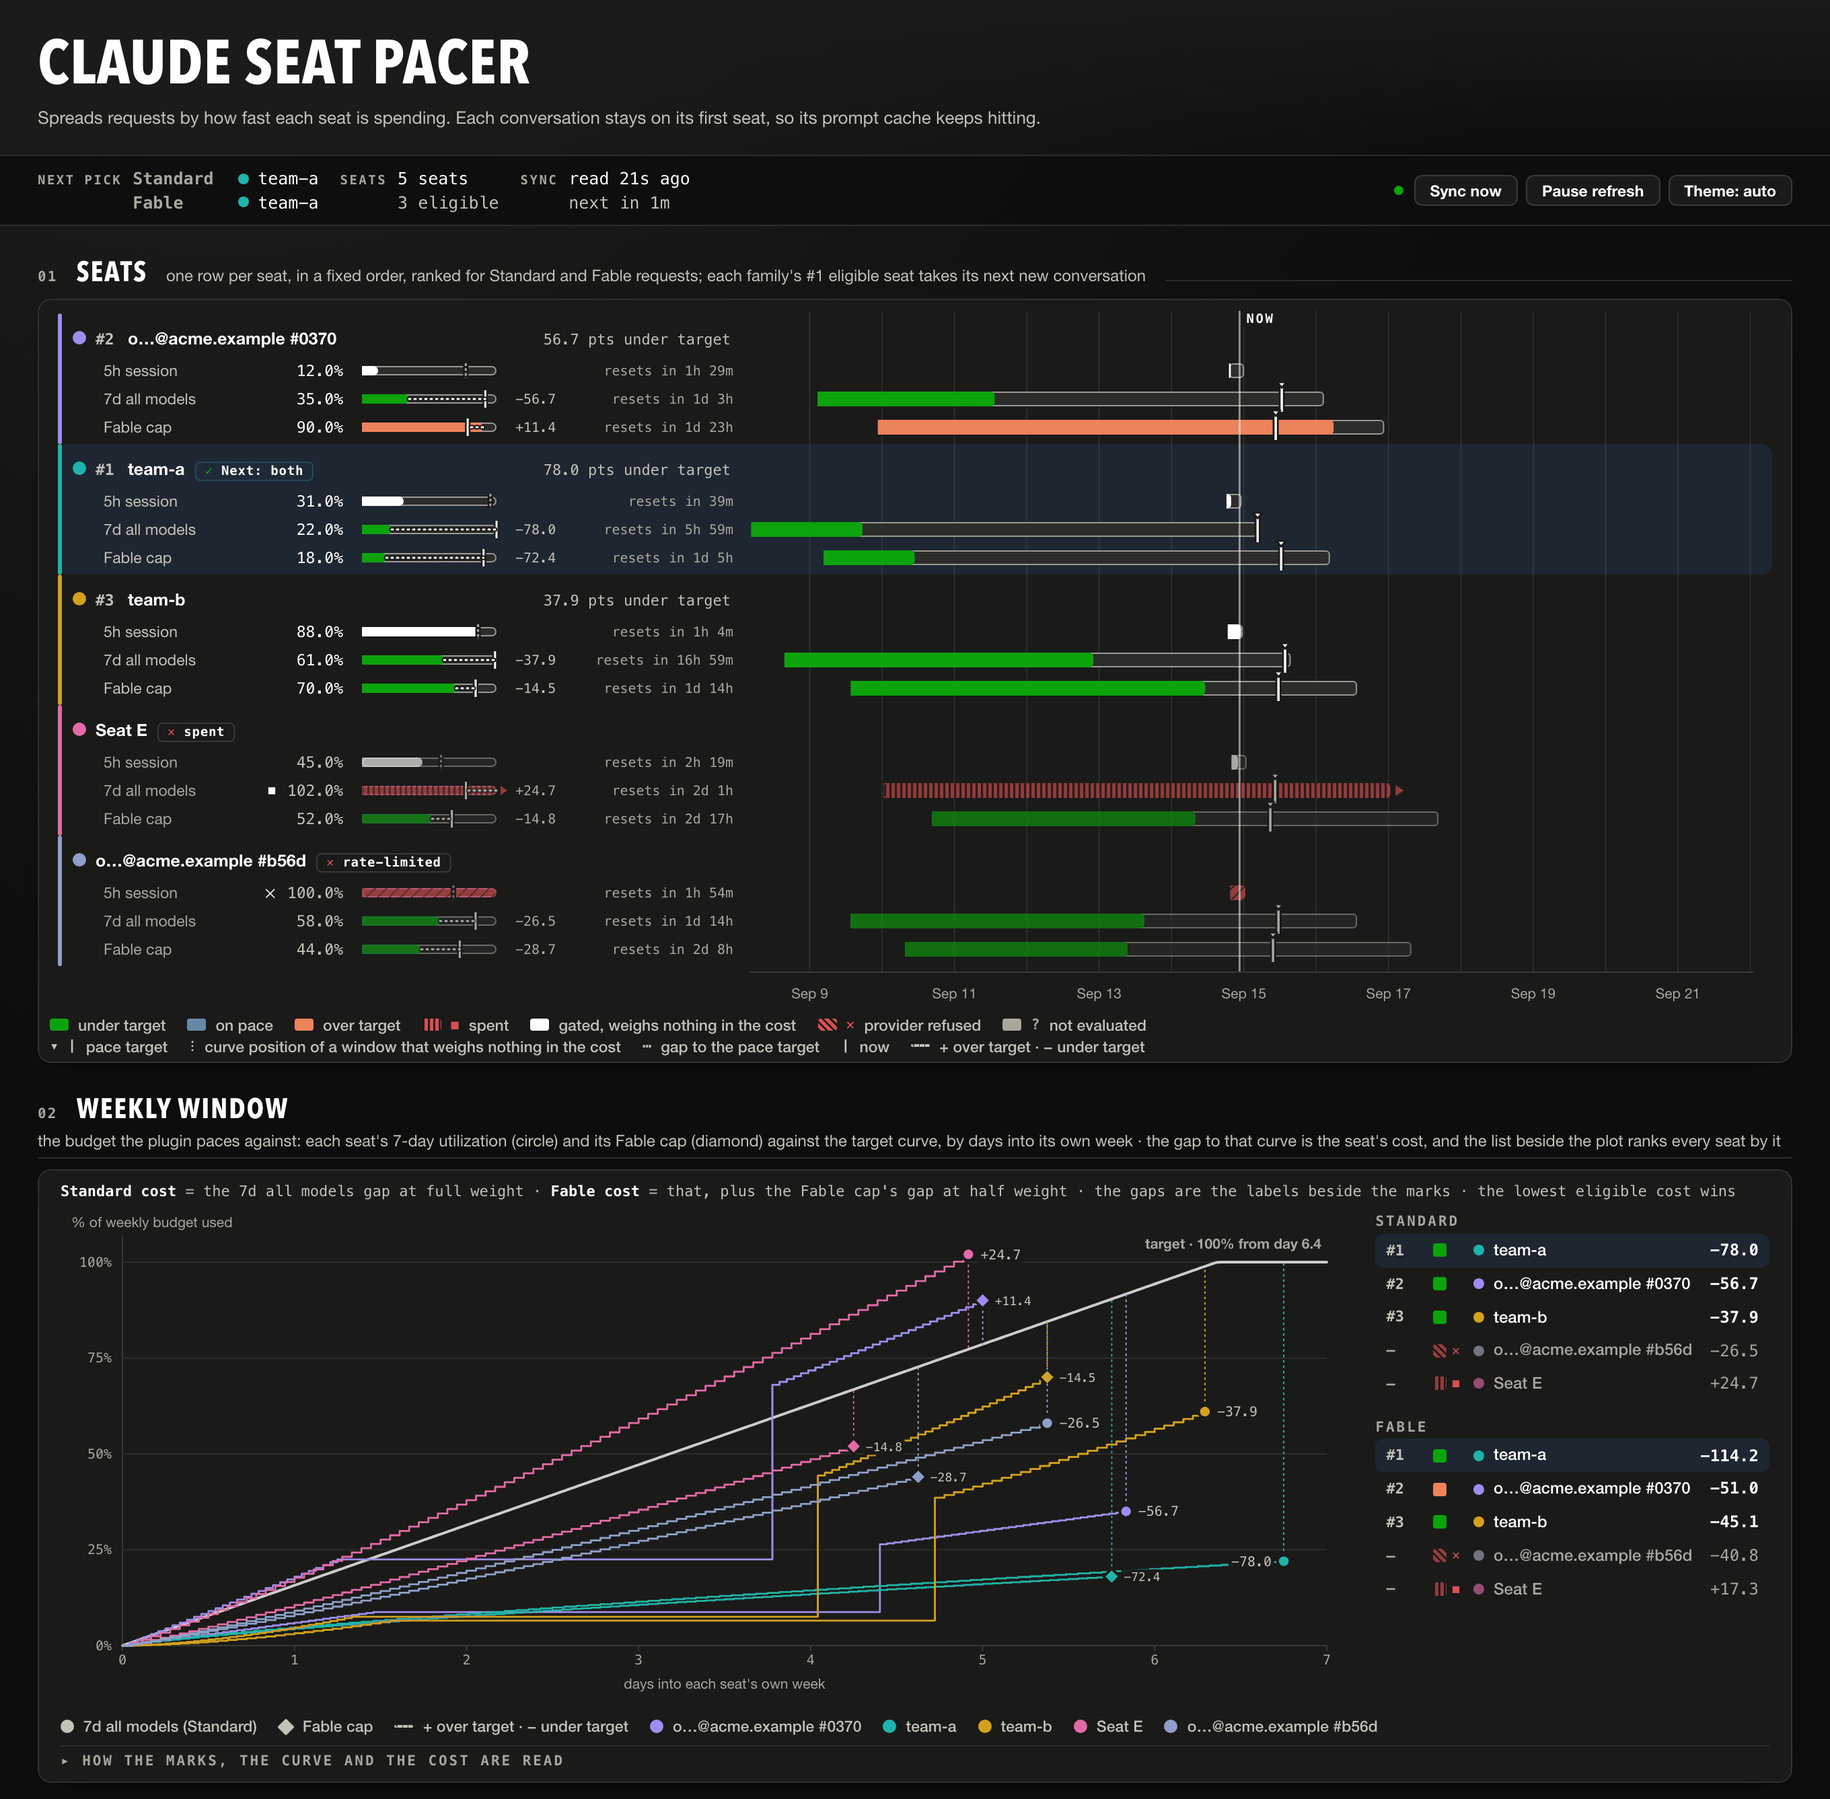
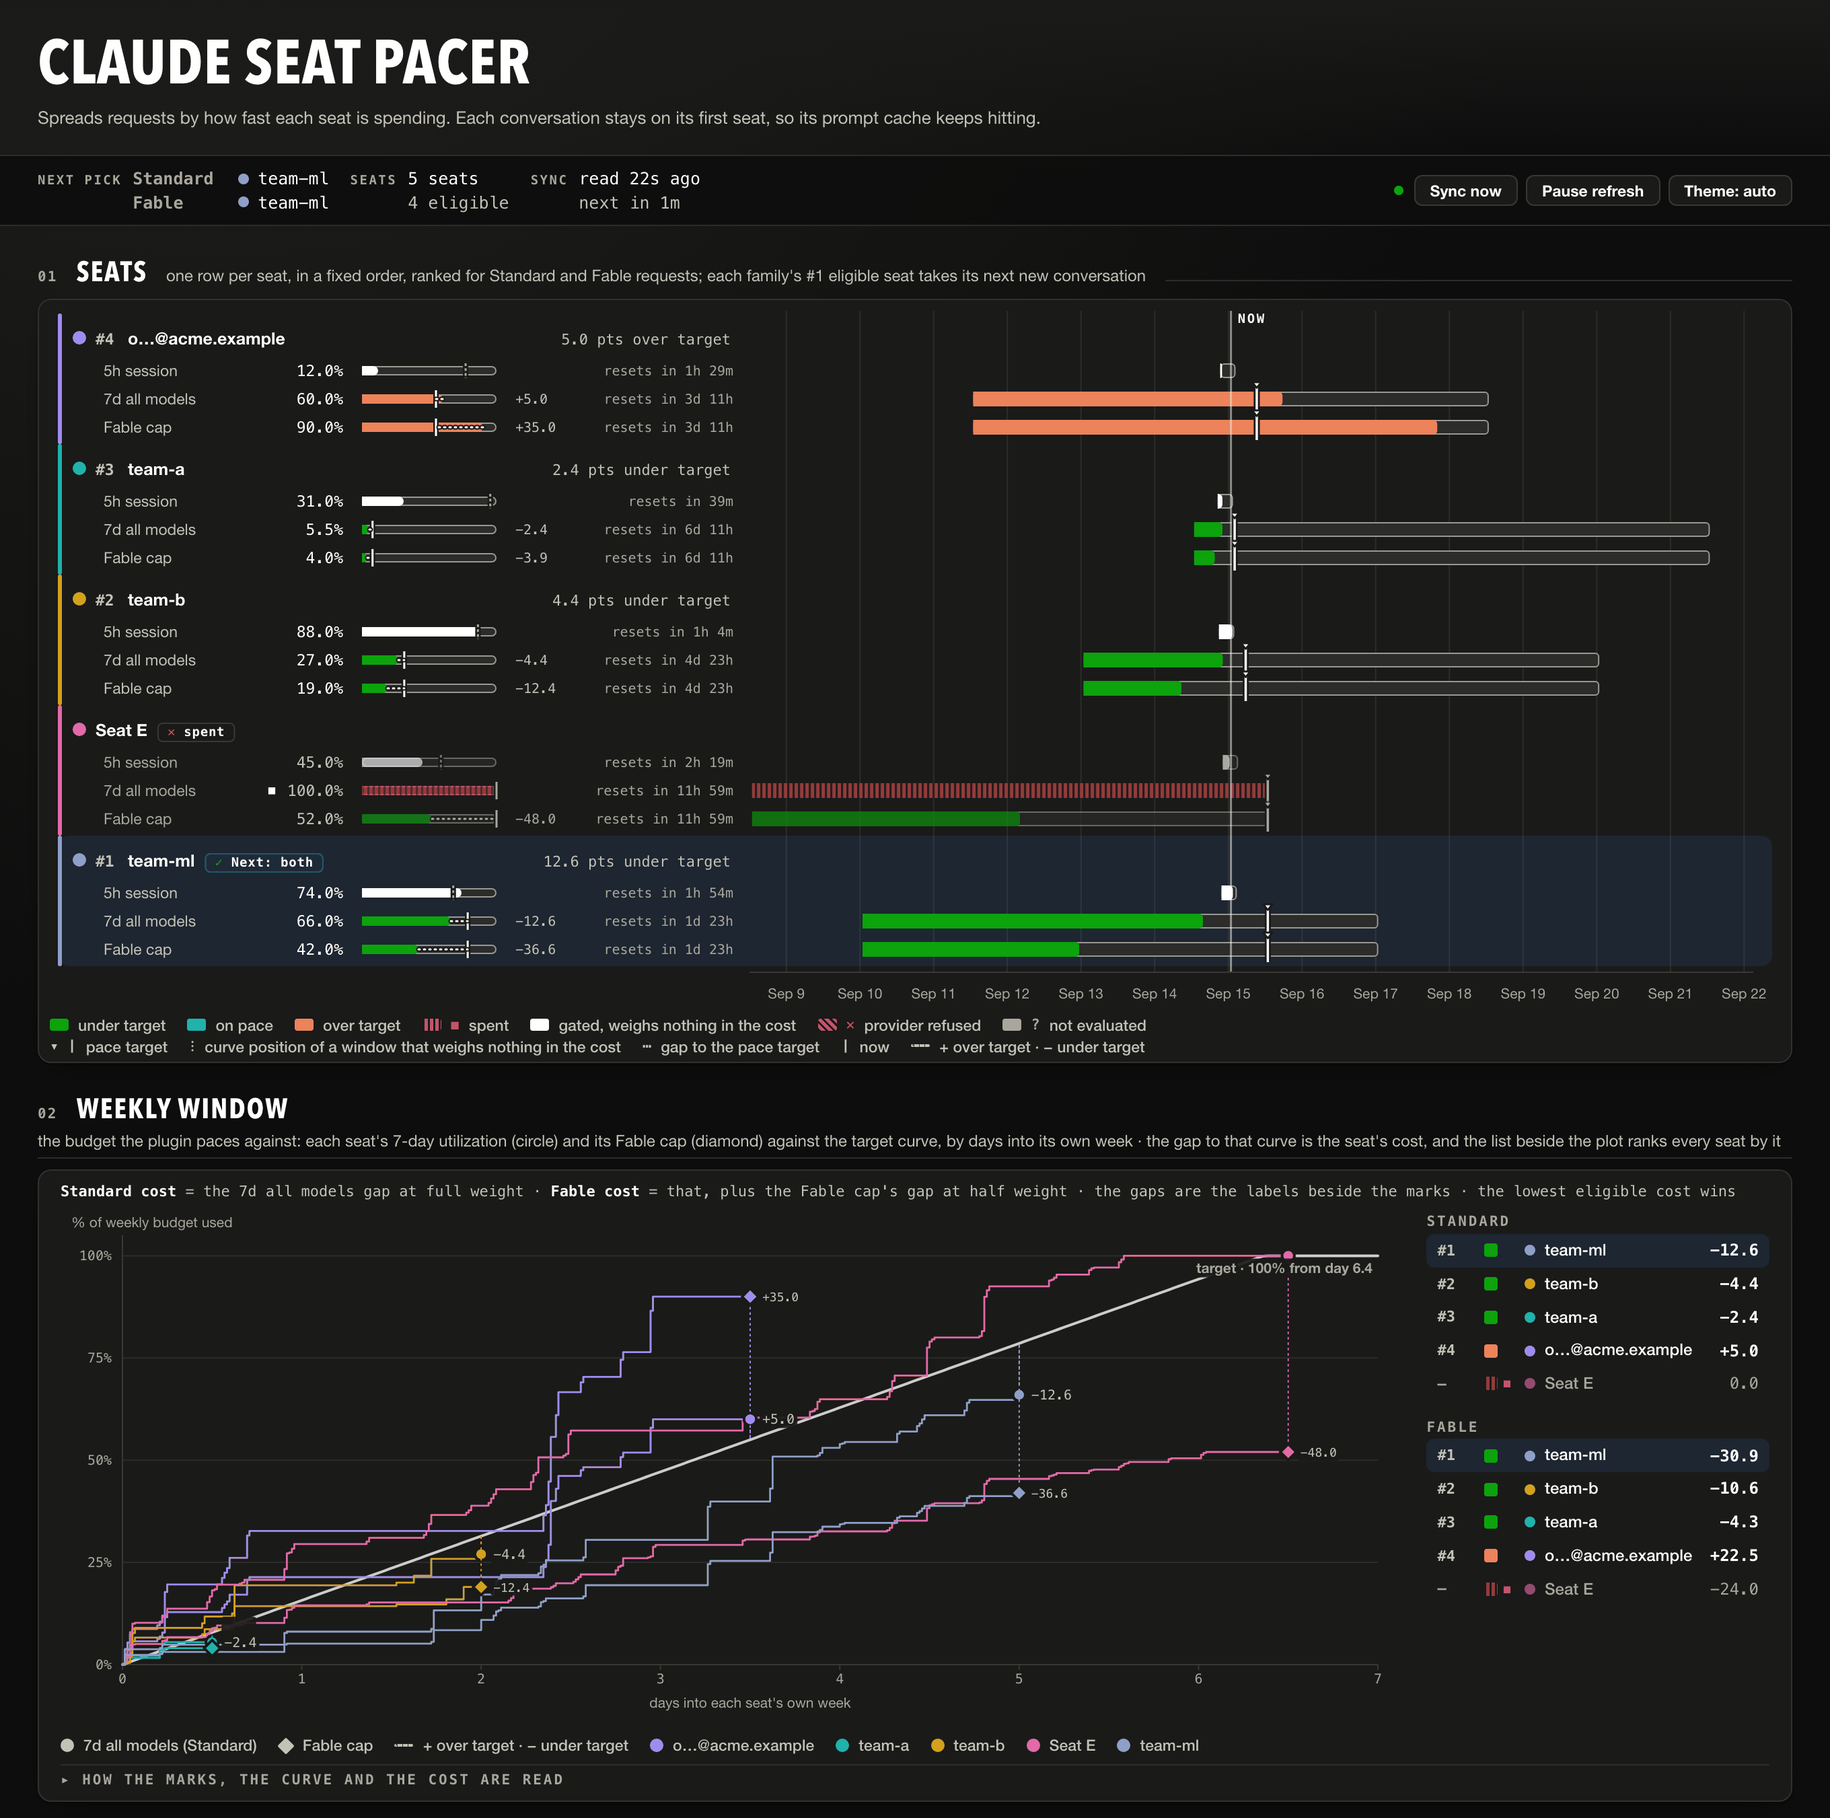
Chore(N/A): Walk the fixture's weekly history like a real seat spends
The many scenario's weekly windows follow a seeded walk: spending runs
of one to three points a step with an occasional larger jump, idle runs
of hours to a day or more, held inside a band around the straight line
to the seat's present reading so the curve glides around its own trend.
The five-seat scenario sits at day 0.5, 2, 3.5, 5 and 6.5 of its seats'
weeks, the last one spent; both weekly windows of a seat share one
reset. The README's hero shows that scenario.

diff --git a/cmd/webdev/main.go b/cmd/webdev/main.go
@@ -11,6 +11,7 @@ import (
 	"fmt"
 	"log"
 	"math"
+	"math/rand"
 	"net/http"
 	"sort"
 	"strings"
@@ -605,22 +606,32 @@ func (f *fixture) exhaustedDecisions() []model.Decision {
 type manySeat struct {
 	id, label, name, email  string
 	session, weekly, scoped float64
+	// elapsedDays is how far into its weekly cycle the seat sits, which is
+	// where its mark lands on the pace plot's x axis. Zero spreads the seat
+	// across the axis by index instead.
+	elapsedDays float64
 	// state picks the exceptional condition the seat carries, "" for none.
 	state string
 }
 
+// The first five rows are the pool `many -seats 5` renders, and they are the
+// pool the README's hero shows: half a day, two days, three and a half, five
+// and six and a half into their own weeks, so their marks spread across the
+// pace plot, and utilizations that put three seats under the target curve, the
+// critical one over it and still eligible, and the last spent. The rest carry
+// the exceptional states, one per row.
 var manySeats = []manySeat{
-	{id: "claude-alice-team-a.json", name: "claude-alice-team-a.json", email: "alice@example.com", session: 0.31, weekly: 0.22, scoped: 0.18},
-	{id: "claude-alice-team-b.json", name: "claude-alice-team-b.json", email: "alice@example.com", session: 0.88, weekly: 0.61, scoped: 0.70},
-	{id: "claude-ops@acme.example.json", name: "claude-ops@acme.example.json", email: "ops@acme.example", session: 0.12, weekly: 0.35, scoped: 0.90, state: "critical"},
-	{id: "claude-oncall@acme.example.json", name: "claude-oncall@acme.example.json", email: "oncall@acme.example", session: 1.00, weekly: 0.58, scoped: 0.44, state: "rejected"},
-	{id: "claude-seat-e.json", label: "Seat E", name: "claude-seat-e.json", session: 0.45, weekly: 0.91, scoped: 0.52, state: "spent"},
+	{id: "claude-alice-team-a.json", name: "claude-alice-team-a.json", email: "alice@example.com", session: 0.31, weekly: 0.055, scoped: 0.04, elapsedDays: 0.5},
+	{id: "claude-alice-team-b.json", name: "claude-alice-team-b.json", email: "alice@example.com", session: 0.88, weekly: 0.27, scoped: 0.19, elapsedDays: 2},
+	{id: "claude-ops@acme.example.json", name: "claude-ops@acme.example.json", email: "ops@acme.example", session: 0.12, weekly: 0.60, scoped: 0.90, elapsedDays: 3.5, state: "critical"},
+	{id: "claude-team-ml.json", name: "claude-team-ml.json", email: "svc.ml@acme.example", session: 0.74, weekly: 0.66, scoped: 0.42, elapsedDays: 5},
+	{id: "claude-seat-e.json", label: "Seat E", name: "claude-seat-e.json", session: 0.45, weekly: 1.0, scoped: 0.52, elapsedDays: 6.5, state: "spent"},
 	{id: "claude-quota.bot@acme-corp.example.json", name: "claude-quota.bot@acme-corp.example.json", email: "quota.bot@acme-corp.example", session: 0.05, weekly: 0.09, scoped: 0.0, state: "stale"},
 	{id: "claude-team-data.json", name: "claude-team-data.json", email: "svc.data@acme.example", session: 0.52, weekly: 0.40, scoped: 0.33, state: "error"},
 	{id: "claude-team-infra.json", name: "claude-team-infra.json", email: "svc.infra@acme.example", session: 0.0, weekly: 0.0, scoped: 0.0, state: "nosnap"},
 	{id: "claude-team-mobile.json", name: "claude-team-mobile.json", email: "svc.mobile@acme.example", session: 0.67, weekly: 0.47, scoped: 0.51, state: "scoped-rejected"},
 	{id: "claude-team-web.json", name: "claude-team-web.json", email: "svc.web@acme.example", session: 0.20, weekly: 0.15, scoped: 0.09, state: "disabled"},
-	{id: "claude-team-ml.json", name: "claude-team-ml.json", email: "svc.ml@acme.example", session: 0.74, weekly: 0.66, scoped: 0.81},
+	{id: "claude-oncall@acme.example.json", name: "claude-oncall@acme.example.json", email: "oncall@acme.example", session: 1.00, weekly: 0.58, scoped: 0.44, state: "rejected"},
 	{id: "claude-team-qa.json", name: "claude-team-qa.json", email: "svc.qa@acme.example", session: 0.38, weekly: 0.29, scoped: 0.24},
 }
 
@@ -702,6 +713,16 @@ func (f *fixture) addManySeat(i int, ms manySeat) {
 		},
 	}
 	f.observedAge[ms.id] = time.Duration(20+13*i) * time.Second
+	elapsed := ms.elapsedDays
+	if elapsed <= 0 {
+		// Seats past the scripted five take axis positions those five leave
+		// open: a quarter-day lattice offset from theirs, which repeats only
+		// after 25 seats and never lands on one of their marks.
+		elapsed = 0.875 + math.Mod(1+1.5*float64(i), 6.25)
+	}
+	// Both weekly windows reset together, as a provider resets a seat's whole
+	// week at one instant.
+	weeklyReset := f.anchor.Add(time.Duration((7 - elapsed) * float64(24*time.Hour)))
 	snap := model.AuthSnapshot{
 		AuthID: ms.id, Label: label, Source: model.SourceUsageEndpoint,
 		Windows: []model.Window{
@@ -713,13 +734,13 @@ func (f *fixture) addManySeat(i int, ms manySeat) {
 			},
 			{
 				Kind: model.WindowWeekly, Utilization: ms.weekly,
-				ResetsAt: f.anchor.Add(time.Duration(6+11*i) * time.Hour),
+				ResetsAt: weeklyReset,
 				Duration: model.WeeklyDuration,
 				Status:   model.StatusAllowed, Severity: model.SeverityNormal,
 			},
 			{
 				Kind: model.WindowWeeklyScoped, Scope: model.FamilyFable, Utilization: ms.scoped,
-				ResetsAt: f.anchor.Add(time.Duration(30+9*i) * time.Hour),
+				ResetsAt: weeklyReset,
 				Duration: model.WeeklyDuration,
 				Status:   model.StatusAllowed, Severity: model.SeverityNormal,
 			},
@@ -741,7 +762,6 @@ func (f *fixture) addManySeat(i int, ms manySeat) {
 		snap.Windows[2].Status = model.StatusRejected
 		snap.Windows[2].Severity = model.SeverityCritical
 	case "spent":
-		snap.Windows[1].Utilization = 1.02
 		snap.Windows[1].Status = model.StatusAllowedWarning
 		snap.Windows[1].Severity = model.SeverityWarning
 	case "stale":
@@ -819,17 +839,25 @@ func (f *fixture) manyDecisions(ids []string) []model.Decision {
 
 // history synthesizes the utilization record the poller would have built for
 // a snapshot, through a real quota store so it is thinned the way the plugin
-// thins: every window climbs from the start of its current cycle to its
-// present reading, with the completed cycle before it landing somewhere of its
-// own. The seat's id shapes the curves so a pool does not draw the same line
-// twelve times; a third of the seats get a steep last forty minutes on the
-// 5-hour window, which is the case the chart's conversation markers exist for,
-// and another third hold every window flat through the middle half of its
+// thins. The seat's id seeds every draw, so a pool draws a different line per
+// seat and a reload draws the same ones.
+//
+// The two weekly windows walk rather than curve: the seat spends in bursts of
+// a few steps separated by idle runs of a couple of hours to most of a day,
+// each spending step drawing from a long-tailed distribution, and a band around
+// the straight line to the endpoint pulls the walk back whenever it runs ahead
+// or falls behind. That is the shape a real week has — overnight and weekend
+// flats, a median step near a point of utilization, and a tenth of the steps
+// carrying a third of the rise. The 5-hour window keeps a smooth power curve,
+// which is what a window that short and steep looks like; a third of the seats
+// get a steeper last forty minutes, the case the chart's conversation markers
+// exist for, and another third hold it flat through the middle half of the
 // cycle, so the store folds that stretch to two readings hours apart and the
 // chart's step between them is visible.
 //
 // The completed cycle is an estimate reconstructed from a token log, as a
-// backfilled file holds it. Seats with seed%3 == 1 also start the current
+// backfilled file holds it, and a weekly one walks at an hour a step because a
+// log is coarser than a poll. Seats with seed%3 == 1 also start the current
 // cycle as an estimate over its first 45%, so the chart shows a mixed cycle:
 // estimated, then observed from the plugin's first reading.
 func (f *fixture) history(snap model.AuthSnapshot, now time.Time) []model.WindowHistory {
@@ -848,6 +876,7 @@ func (f *fixture) history(snap model.AuthSnapshot, now time.Time) []model.Window
 		if w.Duration > 24*time.Hour {
 			step = 20 * time.Minute
 		}
+		walks := w.Kind != model.WindowSession
 		start := w.ResetsAt.Add(-w.Duration)
 		prevLanding := 0.55 + float64(seed%46)/100
 		if w.Kind == model.WindowSession {
@@ -856,13 +885,21 @@ func (f *fixture) history(snap model.AuthSnapshot, now time.Time) []model.Window
 		var prev, cur model.Cycle
 		prev.ResetsAt, prev.Estimated = start, true
 		cur.ResetsAt = w.ResetsAt
-		for t := start.Add(-w.Duration); t.Before(start); t = t.Add(step) {
-			e := 1 - start.Sub(t).Seconds()/w.Duration.Seconds()
-			prev.Samples = append(prev.Samples, model.Sample{At: t, Utilization: prevLanding * math.Pow(e, shape)})
+		if walks {
+			prevStep := time.Hour
+			prevStart := start.Add(-w.Duration)
+			for i, u := range paceWalk(seed+101, int(w.Duration/prevStep)+1, prevStep, prevLanding) {
+				prev.Samples = append(prev.Samples, model.Sample{At: prevStart.Add(time.Duration(i) * prevStep), Utilization: u})
+			}
+		} else {
+			for t := start.Add(-w.Duration); t.Before(start); t = t.Add(step) {
+				e := 1 - start.Sub(t).Seconds()/w.Duration.Seconds()
+				prev.Samples = append(prev.Samples, model.Sample{At: t, Utilization: prevLanding * math.Pow(e, shape)})
+			}
 		}
 		span := now.Sub(start).Seconds()
-		steep := w.Kind == model.WindowSession && seed%3 == 0
-		idle := seed%3 == 2
+		steep := !walks && seed%3 == 0
+		idle := !walks && seed%3 == 2
 		knee := 1 - (40*time.Minute).Seconds()/span
 		mixedUntil := start.Add(-time.Second)
 		if seed%3 == 1 {
@@ -873,9 +910,18 @@ func (f *fixture) history(snap model.AuthSnapshot, now time.Time) []model.Window
 			r.Utilization = util
 			store.Put(model.AuthSnapshot{AuthID: snap.AuthID, ObservedAt: at, Source: model.SourceUsageEndpoint, Windows: []model.Window{r}})
 		}
-		for t := start; !t.After(now); t = t.Add(step) {
+		n := int(now.Sub(start)/step) + 1
+		var walk []float64
+		if walks {
+			walk = paceWalk(seed+7, n, step, w.Utilization)
+		}
+		for i := 0; i < n; i++ {
+			t := start.Add(time.Duration(i) * step)
 			frac := t.Sub(start).Seconds() / span
 			u := w.Utilization * math.Pow(frac, shape)
+			if walks {
+				u = walk[i]
+			}
 			if idle && frac > 0.25 && frac < 0.75 {
 				u = w.Utilization * math.Pow(0.25, shape)
 			}
@@ -903,4 +949,108 @@ func (f *fixture) history(snap model.AuthSnapshot, now time.Time) []model.Window
 	}
 	store.ImportHistory(map[string][]model.WindowHistory{snap.AuthID: saved})
 	return store.History(snap.AuthID, quota.HistoryPublishMax)
+}
+
+// paceWalk draws one cycle's utilization: n samples spaced step apart, rising
+// from 0 to end, never decreasing and never over full before the last.
+//
+// Spending alternates with idling. An idle run is two hours to eight, and one
+// run in four stretches past that by up to half a day; a spending run is forty
+// minutes to two hours, and each of its steps draws a lognormal amount with a
+// one-in-30 multiplier on top, which is what puts a tenth of the steps in
+// charge of roughly a third of the rise. Every cycle holds one planted idle run
+// of at least nine hours, and a third of the seeds hold one over a day, so
+// overnight and weekend gaps are the rule and not the exception. A band around
+// straight line to end bounds the drift either way: past the top rail the walk
+// holds until the line catches up, past the bottom rail it spends through what
+// would have been idle and each step is scaled by how far behind it is. The
+// increments are then scaled as a whole to land on end exactly, which leaves
+// every flat flat.
+func paceWalk(seed, n int, step time.Duration, end float64) []float64 {
+	if n < 1 {
+		return nil
+	}
+	out := make([]float64, n)
+	out[n-1] = end
+	if n < 4 || end <= 0 || step <= 0 {
+		return out
+	}
+	rng := rand.New(rand.NewSource(int64(seed)))
+	perHour := float64(time.Hour) / float64(step)
+	runOf := func(hours float64) int { return max(1, int(hours*perHour)) }
+	// A window at full stopped spending before now and has held flat since.
+	last := n - 1
+	if end >= 1 {
+		last = max(3, int(0.86*float64(n-1)))
+	}
+	// A day idle costs a seat a seventh of its week, so the band has to be
+	// wide enough to hold one run without the rails fighting it.
+	band := math.Max(0.06, 0.2*end)
+	plantLen := runOf(9 + 7*rng.Float64())
+	if seed%3 == 0 {
+		plantLen = runOf(26 + 14*rng.Float64())
+	}
+	plantLen = min(plantLen, last*45/100)
+	plantAt := min(1+last/6+rng.Intn(max(1, last/2)), max(1, last-plantLen))
+	inc := make([]float64, last+1)
+	idling, runLeft, planted, cum := false, 1+rng.Intn(6), 0, 0.0
+	for i := 1; i <= last; i++ {
+		if i == plantAt {
+			planted = plantLen
+		}
+		if planted > 0 {
+			planted--
+			continue
+		}
+		if runLeft == 0 {
+			idling = !idling
+			if idling {
+				runLeft = runOf(2 + 6*rng.Float64())
+				if rng.Intn(4) == 0 {
+					runLeft += runOf(12 * rng.Float64())
+				}
+			} else {
+				runLeft = runOf(0.7 + 1.3*rng.Float64())
+			}
+		}
+		runLeft--
+		dev := cum - end*float64(i)/float64(last)
+		if dev > band || (idling && dev > -band) {
+			continue
+		}
+		// The nominal step is the cycle's rise spread over the steps that
+		// spend, about one in six; the lognormal around it sets a median near
+		// a point of utilization against a ninetieth percentile near three,
+		// the one-in-30 multiplier gives the rest of the tail, and the cap
+		// keeps any one step from carrying more than a fifth of the cycle.
+		d := end / float64(last) * 5.8 * 0.7 * math.Exp(rng.NormFloat64()*0.85)
+		if rng.Intn(30) == 0 {
+			d *= 3 + 5*rng.Float64()
+		}
+		if dev < 0 {
+			// Behind the line, the seat spends harder the further behind it
+			// is, so the catch-up after a long flat spreads over hours rather
+			// than standing the curve on end.
+			d *= 1 - 1.2*dev/band
+		}
+		d = math.Min(d, math.Min(0.09, 0.22*end))
+		cum += d
+		inc[i] = d
+	}
+	run, scale := 0.0, 1.0
+	if cum > 0 {
+		scale = end / cum
+	}
+	for i := 1; i <= last; i++ {
+		if cum <= 0 {
+			run = end * float64(i) / float64(last)
+		} else {
+			run += inc[i] * scale
+		}
+		out[i] = math.Min(run, 1)
+	}
+	for i := last; i < n; i++ {
+		out[i] = end
+	}
+	return out
 }
